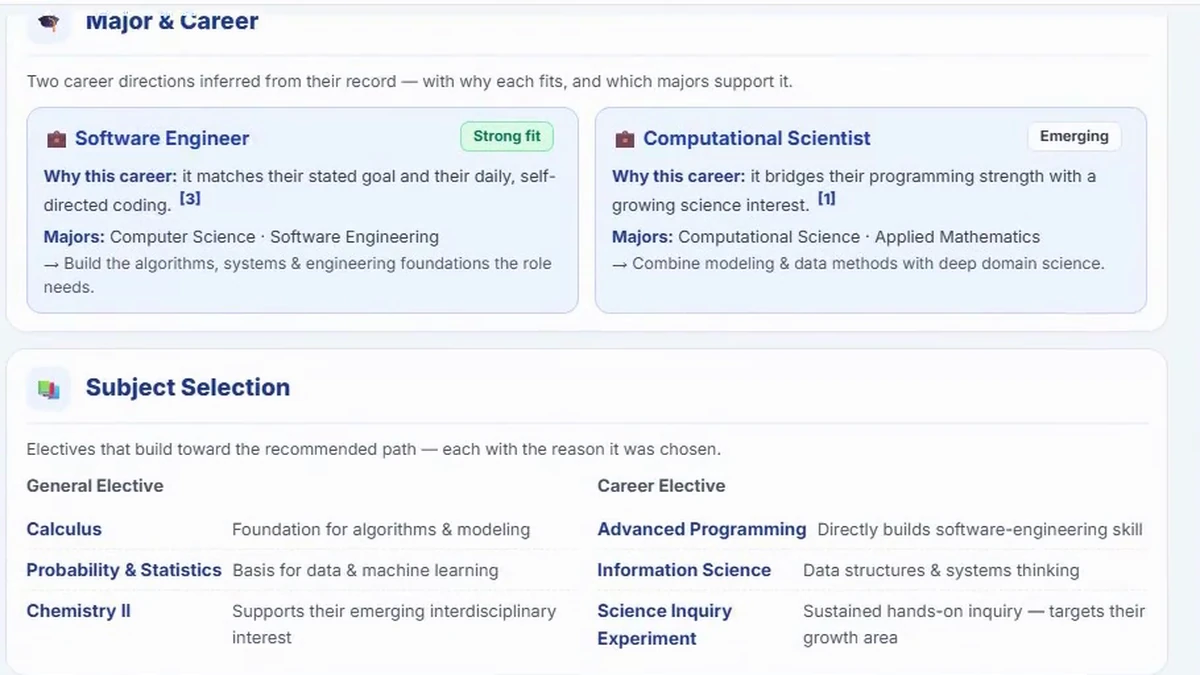
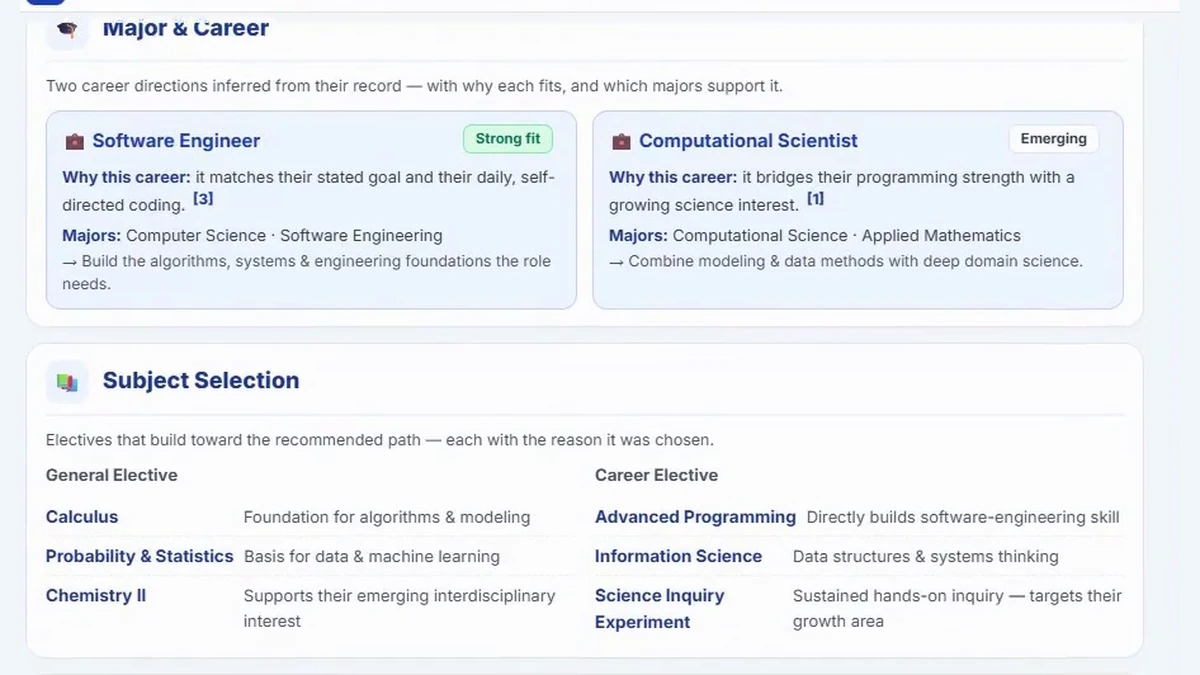
Pad the figures to the frame instead of cutting them to it
Every remaining complaint was the same mistake: forcing content into 16:9 by
trimming it. On a white background the padding is invisible, so there was never
a reason to cut.

The tutoring shot was taken to y=486, which lopped off the last two lines of the
worked solution - the interval and the answer, which are the only lines a reader
would look for. It runs to 706 now, where the panel closes, and the blank bottom
half of the source is what gets dropped instead.

The counseling report was trimmed to the ratio from both ends, so the section
heading lost its top and the last row of the subject table lost its bottom. It
takes both sections whole and lets the white make up the difference.

The home cards were cropping the figures a second time. That cut an equation in
half and sliced the report's cards top and bottom, which is what made three
otherwise finished pictures look broken in the one place a visitor sees first.
At 212px wide nothing in these is legible anyway, so the card shows the whole
picture and keeps the shape it is recognised by.

diff --git a/scripts/build_project_figures.py b/scripts/build_project_figures.py
@@ -250,14 +250,16 @@ SOURCES = os.path.join(os.path.dirname(os.path.abspath(__file__)), "figure-sourc
 # crop is padded out to the ratio in the source's own background colour rather
 # than cut down to it.
 REAL = {
-    # already 16:9, so it needs no crop and gets no padding bands
+    # the worked solution runs to y=640 and the panel closes at 700; the blank
+    # half below that is dropped, and the white padding centres what is left
     "ai-tutoring-cluney": (
-        os.path.join(SOURCES, "cluney-tutor-ui.webp"), None, (0, 0, 1703, 957)),
-    # the card border is at y=44 and its heading at 52; starting at 40 is the last fully clean row above it, so the card opens the frame instead of being sliced by it. 552 is the
-    # seam under the Subject Selection card, and 934 lands in the gutter before
-    # the chat panel starts at 945
+        os.path.join(SOURCES, "cluney-tutor-ui.webp"), None, (0, 10, 1703, 706)),
+    # the card border is at y=44 and its heading at 52, and the Subject Selection
+    # card closes at 556, so this takes both sections whole with room either
+    # side and lets the white padding make up the ratio. Trimming to 16:9
+    # instead was what shaved the heading and cut the last table row.
     "agentic-career-keris": (
-        os.path.join(FILMS, "career-agent", "system-demo.mp4"), 30.0, (24, 40, 934, 552)),
+        os.path.join(FILMS, "career-agent", "system-demo.mp4"), 30.0, (24, 34, 938, 566)),
     # the debate chatbot is what this project built; the frame that was here came
     # from the self-disclosure demo, which is a different study. 415 stops above
     # the Stage 3 banner, and the white margin either side is what the padding
@@ -278,10 +280,13 @@ REAL = {
 # thumbnail keeps the part of the picture that reads as a shape: the handwriting,
 # the two career panels, the person in the headset.
 THUMB_W, THUMB_H = 900, 500
+# Cropping again for the card sliced an equation in half and cut the report's
+# text off top and bottom. At 212px nothing is legible either way, so the card
+# shows the whole picture and keeps its shape intact.
 REAL_THUMBS = {
-    "ai-tutoring-cluney": (0.42, 0.36, 1.00, 0.96),
-    "agentic-career-keris": (0.04, 0.225, 0.97, 0.555),
-    "vr-dementia-biomarker": (0.00, 0.00, 1.00, 1.00),
+    "ai-tutoring-cluney": (0.0, 0.0, 1.0, 1.0),
+    "agentic-career-keris": (0.0, 0.0, 1.0, 1.0),
+    "vr-dementia-biomarker": (0.0, 0.0, 1.0, 1.0),
 }
 
 
